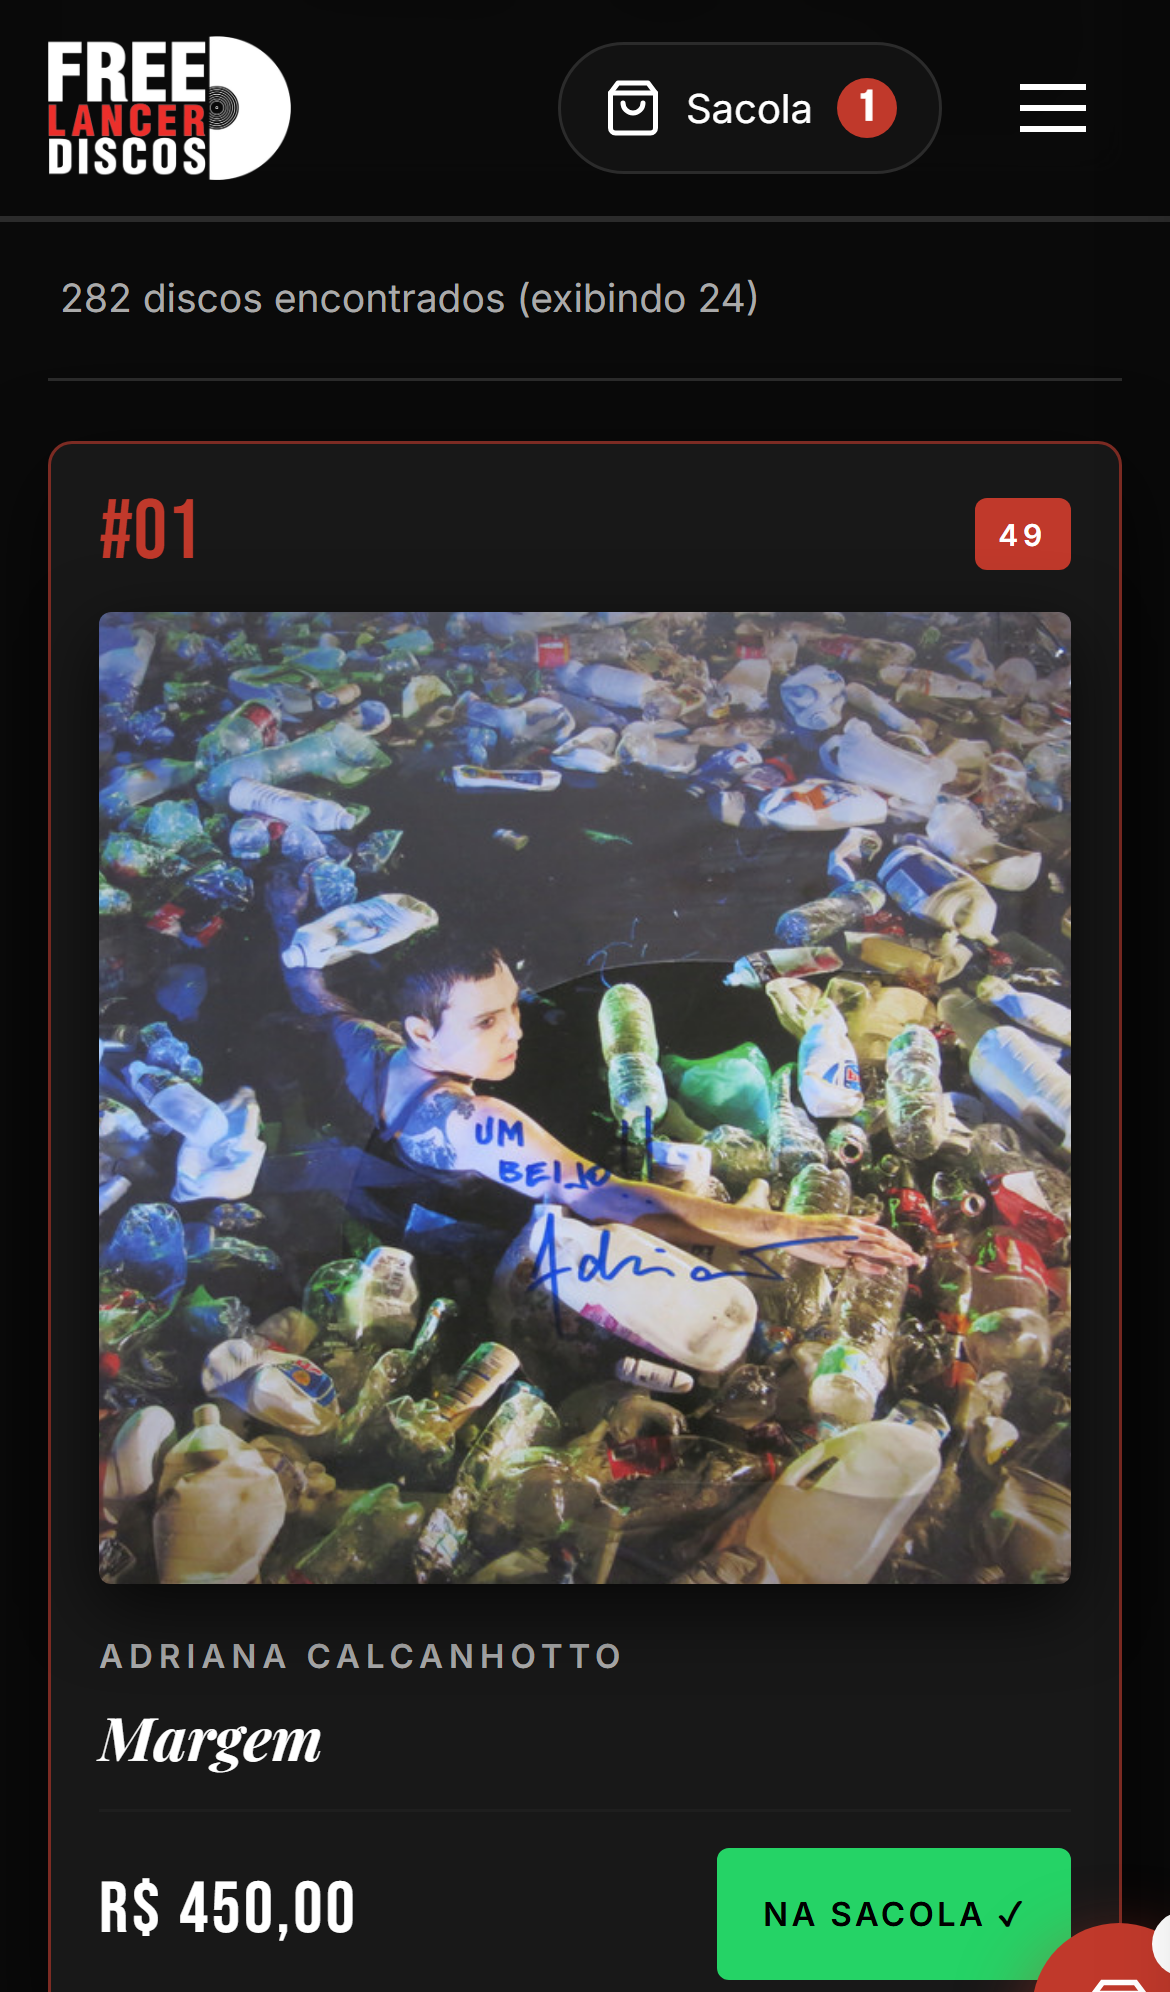
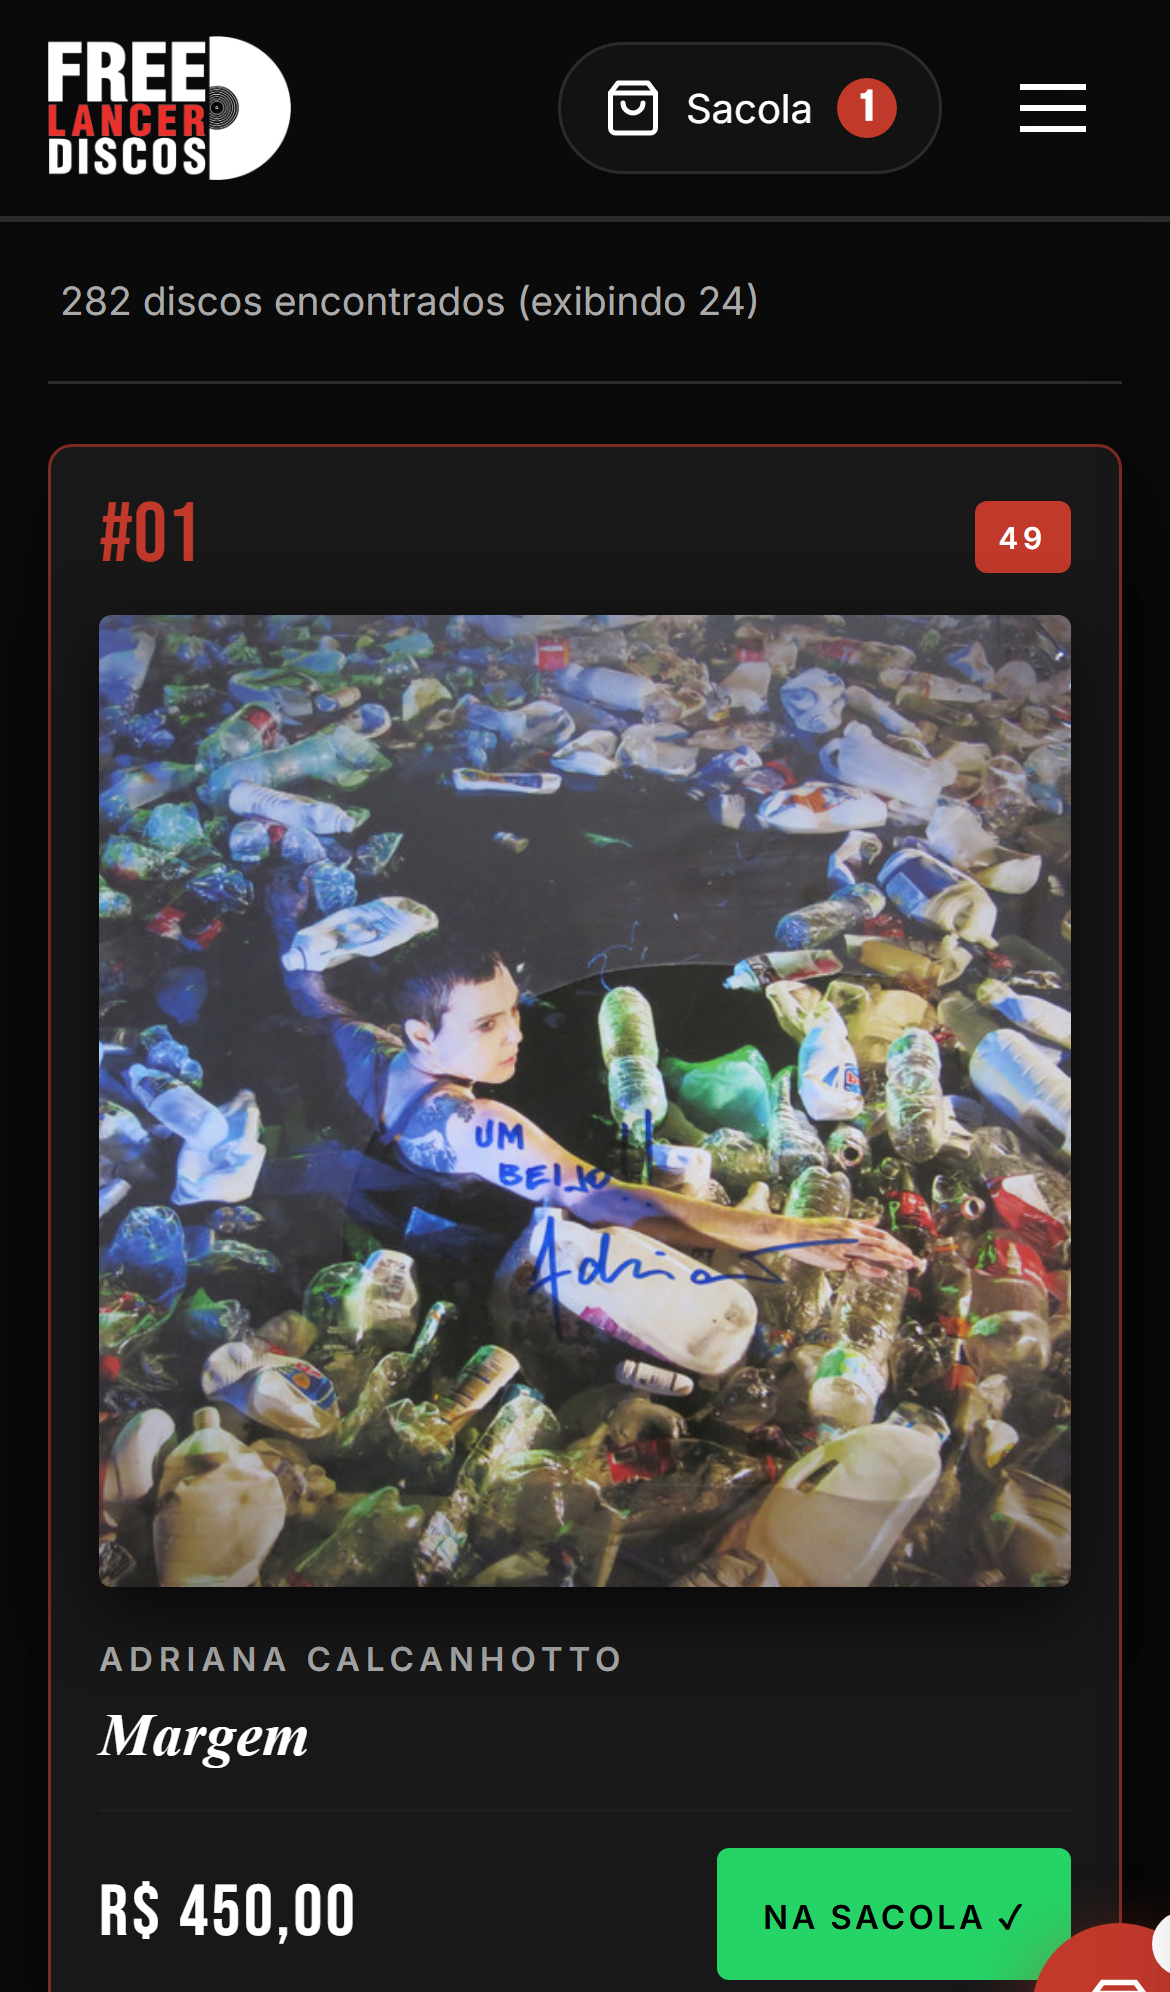
style(typography): aplica Times New Roman no header, titulos e hero lede, e remove kicker

diff --git a/css/style.css b/css/style.css
@@ -122,9 +122,10 @@ a {
 }
 
 .nav-link {
-  font-family: var(--font-editorial-title);
+  font-family: var(--primitive-font-serif);
   font-style: italic;
-  font-size: 17px;
+  font-size: 19px;
+  letter-spacing: 0.02em;
   color: var(--primitive-gray-300);
   padding-bottom: 2px;
   border-bottom: 1px solid transparent;
@@ -241,9 +242,9 @@ a {
 }
 
 .mobile-link {
-  font-family: var(--font-editorial-title);
+  font-family: var(--primitive-font-serif);
   font-style: italic;
-  font-size: 18px;
+  font-size: 20px;
   color: var(--color-text-main);
   padding: 12px 8px;
   border-bottom: 1px solid var(--primitive-surface);
@@ -320,13 +321,13 @@ a {
 .hero-lede {
   font-family: var(--font-editorial-title);
   font-style: italic;
-  font-size: clamp(18px, 2.2vw, 24px);
-  color: var(--color-text-muted);
-  max-width: 480px;
+  font-size: clamp(19px, 2.3vw, 24px);
+  color: var(--primitive-gray-300);
+  max-width: 500px;
   margin-bottom: var(--space-8);
   padding-left: var(--space-4);
   border-left: 2px solid var(--color-brand-primary);
-  line-height: 1.45;
+  line-height: 1.55;
 }
 
 .hero-actions {

diff --git a/index.html b/index.html
@@ -83,7 +83,6 @@
   <section class="hero-section" id="inicio">
     <div class="hero-inner">
       <div class="hero-text">
-        <span class="hero-kicker">CAPA · A SELEÇÃO DA SEMANA</span>
         <h1 class="hero-title">Cada Disco,<br><em>Uma</em> História</h1>
         <p class="hero-lede">Lorem ipsum dolor sit amet, consectetur adipiscing elit. Sed do eiusmod tempor incididunt ut labore et dolore magna aliqua.</p>
         <div class="hero-actions">

diff --git a/css/tokens.css b/css/tokens.css
@@ -29,7 +29,7 @@
   --primitive-green-dark: #1f9d55;
 
   /* Tipografia */
-  --primitive-font-serif: 'Playfair Display', Georgia, serif;
+  --primitive-font-serif: 'Times New Roman', Times, 'Nimbus Roman No9 L', serif;
   --primitive-font-head: 'Bebas Neue', Impact, 'Arial Narrow', sans-serif;
   --primitive-font-body: 'Inter', system-ui, -apple-system, sans-serif;
 
